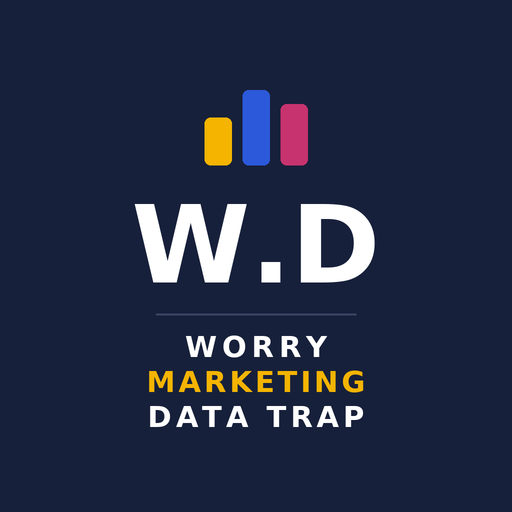
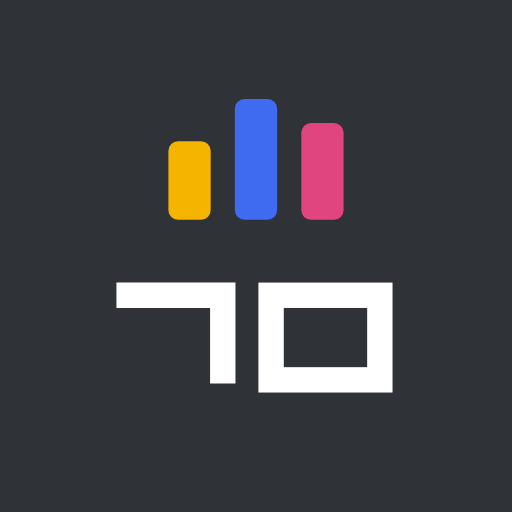
Add files via upload

Changed region(s): [[0.2188, 0.1562, 0.7812, 0.8438]]

diff --git a/index.html b/index.html
@@ -35,11 +35,7 @@ header{background:var(--paper);border-bottom:1px solid var(--line);position:stic
 .hrow{display:flex;flex-wrap:wrap;align-items:center;gap:10px 22px;padding:14px 28px 10px;max-width:1480px;margin:0 auto}
 .brand{font-family:var(--display);font-size:30px;letter-spacing:-.5px;line-height:1;display:flex;align-items:center;gap:10px}
 .brand-sub{font-family:var(--body);font-size:11px;font-weight:600;line-height:1.3;color:var(--muted);padding-left:10px;border-left:1.5px solid var(--line)}
-.brand i{display:inline-flex;gap:3px}
-.brand i b{display:block;width:7px;height:22px;border-radius:2px}
-.brand i b:nth-child(1){background:#F4B400;height:14px;align-self:flex-end}
-.brand i b:nth-child(2){background:#2B59D9}
-.brand i b:nth-child(3){background:#C7336F;height:18px;align-self:flex-end}
+.brand .mark{width:40px;height:40px;flex:none}
 .meta{margin-left:auto;font-size:13px;color:var(--muted);display:flex;align-items:center;gap:10px}
 .sample{background:#FFF3C4;color:#6B4E00;border-radius:6px;padding:3px 8px;font-weight:600;font-size:12px}
 .sample[hidden]{display:none}
@@ -248,7 +244,15 @@ dialog::backdrop{background:rgba(23,32,58,.45)}
 <body>
 <header>
   <div class="hrow">
-    <div class="brand"><i aria-hidden="true"><b></b><b></b><b></b></i><span>W.D</span><span class="brand-sub">Worry Marketing<br>Data Trap</span></div>
+    <div class="brand"><svg class="mark" aria-hidden="true" xmlns="http://www.w3.org/2000/svg" viewBox="0 0 100 100"><circle cx="50" cy="50" r="50" fill="#2F3338"/>
+<g transform="translate(50 50) scale(1) translate(-50 -50)">
+<rect x="35.5" y="31" width="7" height="13" rx="1.6" fill="#F4B400"/>
+<rect x="46.5" y="24" width="7" height="20" rx="1.6" fill="#3E6BF0"/>
+<rect x="57.5" y="28" width="7" height="16" rx="1.6" fill="#E0457F"/>
+<g fill="none" stroke="#fff" stroke-width="4.2" stroke-linecap="square" stroke-linejoin="miter">
+<path d="M29 56.5 H44.5 V69"/>
+<rect x="52.5" y="56.5" width="18" height="14"/>
+</g></g></svg><span>W.D</span><span class="brand-sub">Worry Marketing<br>Data Trap</span></div>
     <div class="meta"><span class="sample" id="sampleBadge" hidden>샘플 데이터</span><span id="updated"></span><button class="reload" id="reloadBtn" aria-label="새로고침">↻ 새로고침</button></div>
   </div>
   <nav class="tabs" id="tabs" aria-label="분야"></nav>
@@ -347,7 +351,7 @@ dialog::backdrop{background:rgba(23,32,58,.45)}
 <div class="ptr" id="ptr" aria-live="polite">↓ 당겨서 새로고침</div>
 
 <script>
-const APP_VERSION='3.1';
+const APP_VERSION='3.2';
 /* 분야별 색 — 분야를 추가하면 여기에도 색을 하나 넣어주세요 */
 const CAT_STYLE={
   meme:{color:"#F4B400", ink:"#17203A"}, product:{color:"#12A37F", ink:"#fff"}, ad:{color:"#C7336F", ink:"#fff"},
